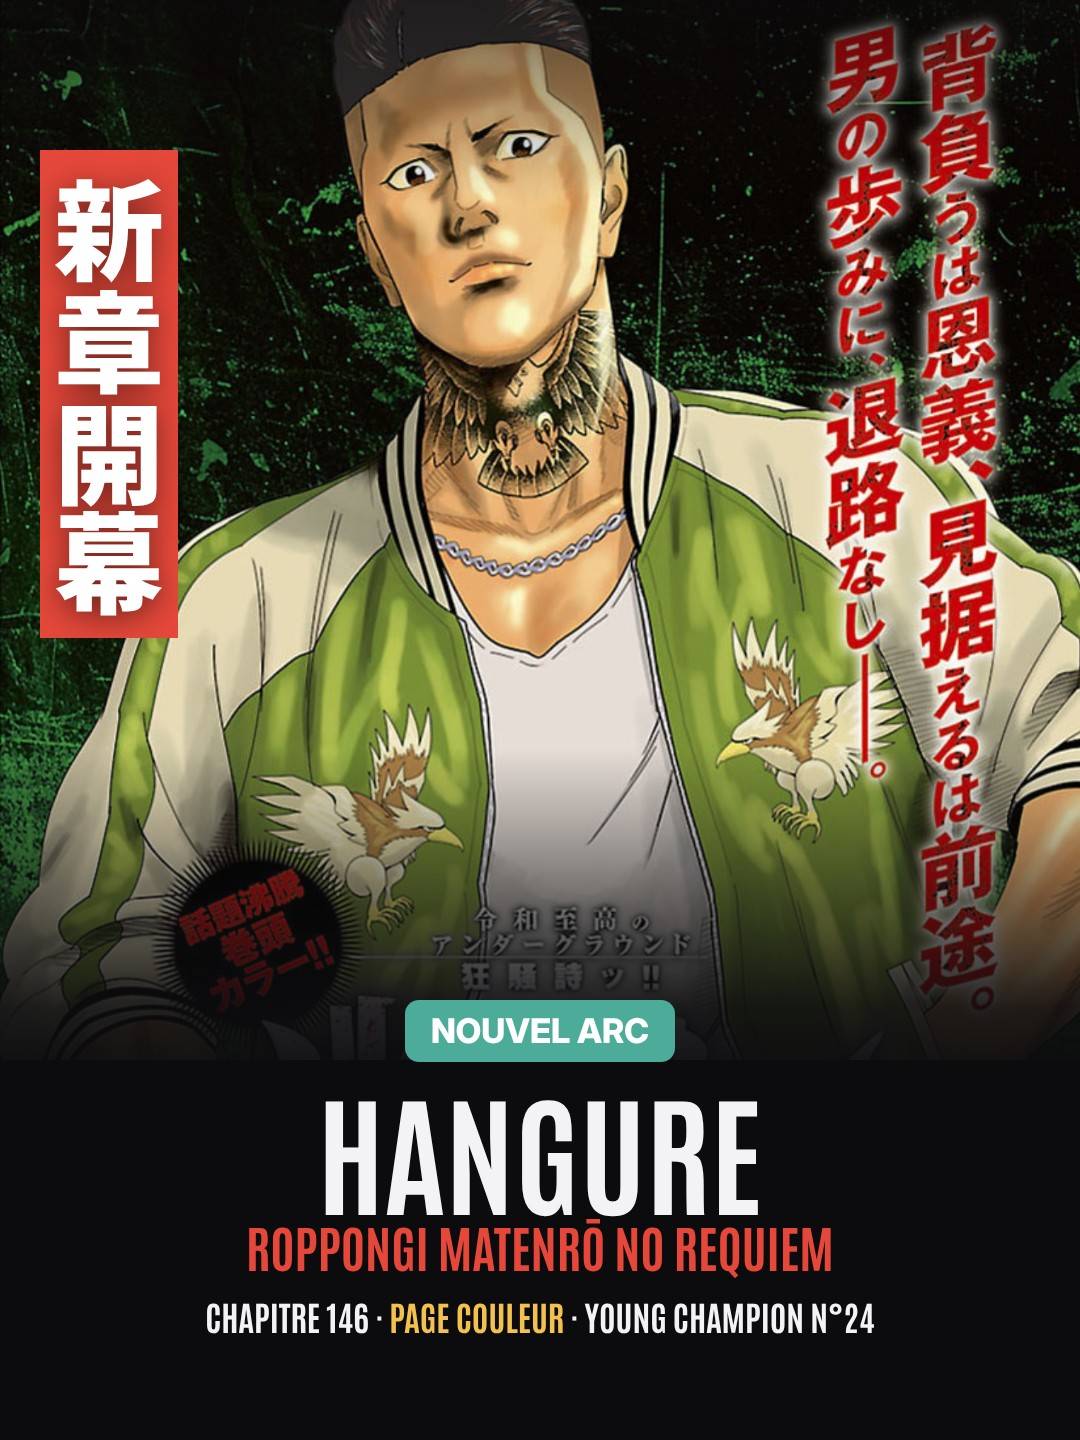
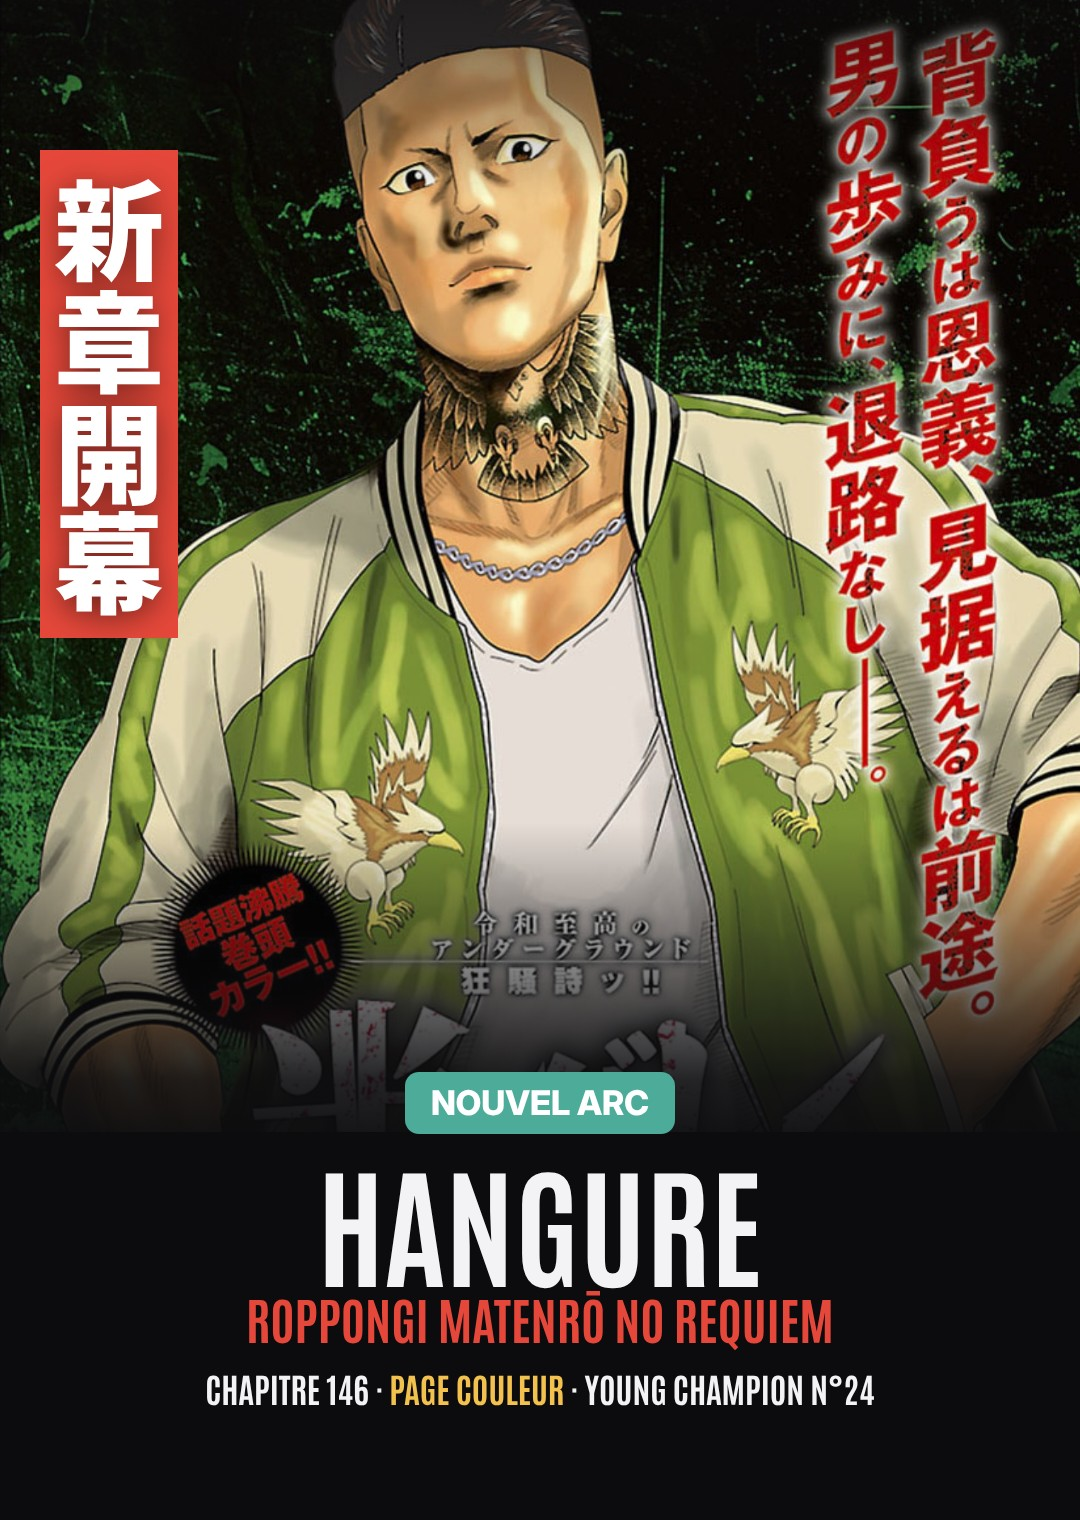
Story Hangure : version haute (h 1520), bloc titre à mi-hauteur (marge 115)
Claude-Session: https://claude.ai/code/session_01ShgbxL6GpEPzbudUpDfTjj

diff --git a/modeles/nouvel-arc/index.html b/modeles/nouvel-arc/index.html
@@ -14,7 +14,7 @@
        chap   : numéro de chapitre · mag : magazine et numéro (ex. Young Champion n°24)
        extra  : mot en jaune entre les deux (défaut « Page couleur », vide = rien)
        kanji  : cartouche vertical (défaut 新章開幕)
-       h      : hauteur totale pour la story (défaut 1440 ; plus haut = image plus grande, bloc titre posé en bas)
+       h      : hauteur totale pour la story (défaut 1440 ; plus haut = image plus grande, bloc titre posé en bas) · marge : espace sous le bloc titre (défaut 44)
      Rendu : node render.js (Playwright) → reseaux.jpg et lien.jpg. -->
 <style>
 @font-face{font-family:A;src:url(/fonts/Antonio.ttf) format("truetype");font-weight:100 700}
@@ -70,7 +70,7 @@ html,body{margin:0;background:#333}
   [["rt", 1000], ["rs", 1000], ["rm", 1000], ["lt", 620], ["ls", 620], ["lm", 620]].forEach(function (a) { var el = document.getElementById(a[0]), fs = parseFloat(getComputedStyle(el).fontSize); el.style.whiteSpace = "nowrap"; el.style.display = "inline-block"; el.style.alignSelf = "flex-start"; while (el.offsetWidth > a[1] && fs > 20) { fs -= 2; el.style.fontSize = fs + "px"; } el.style.display = "block"; el.style.alignSelf = ""; });
   // Version story : hauteur totale « h » (> 1440) ; l'image s'allonge et le bloc titre descend d'autant, toujours sur fond noir.
   var H = +g("h"); if (H > 1440) { var r = document.getElementById("r"), mid = r.querySelector(".mid");
-    r.style.height = H + "px"; var mt = H - 44 - mid.offsetHeight; mid.style.top = mt + "px"; document.getElementById("rf").style.height = (mt + 60) + "px";
+    r.style.height = H + "px"; var mt = H - (+g("marge") || 44) - mid.offsetHeight; mid.style.top = mt + "px"; document.getElementById("rf").style.height = (mt + 60) + "px";
     r.querySelector(".sh").style.background = "linear-gradient(180deg,rgba(12,12,14,.55) 0,transparent 200px,transparent " + (mt - 250) + "px,rgba(12,12,14,.9) " + (mt + 8) + "px,#0c0c0e " + (mt + 94) + "px)"; }
   var im = new Image(); im.onload = function () { document.body.dataset.ok = 1; }; im.src = v;
 })();
